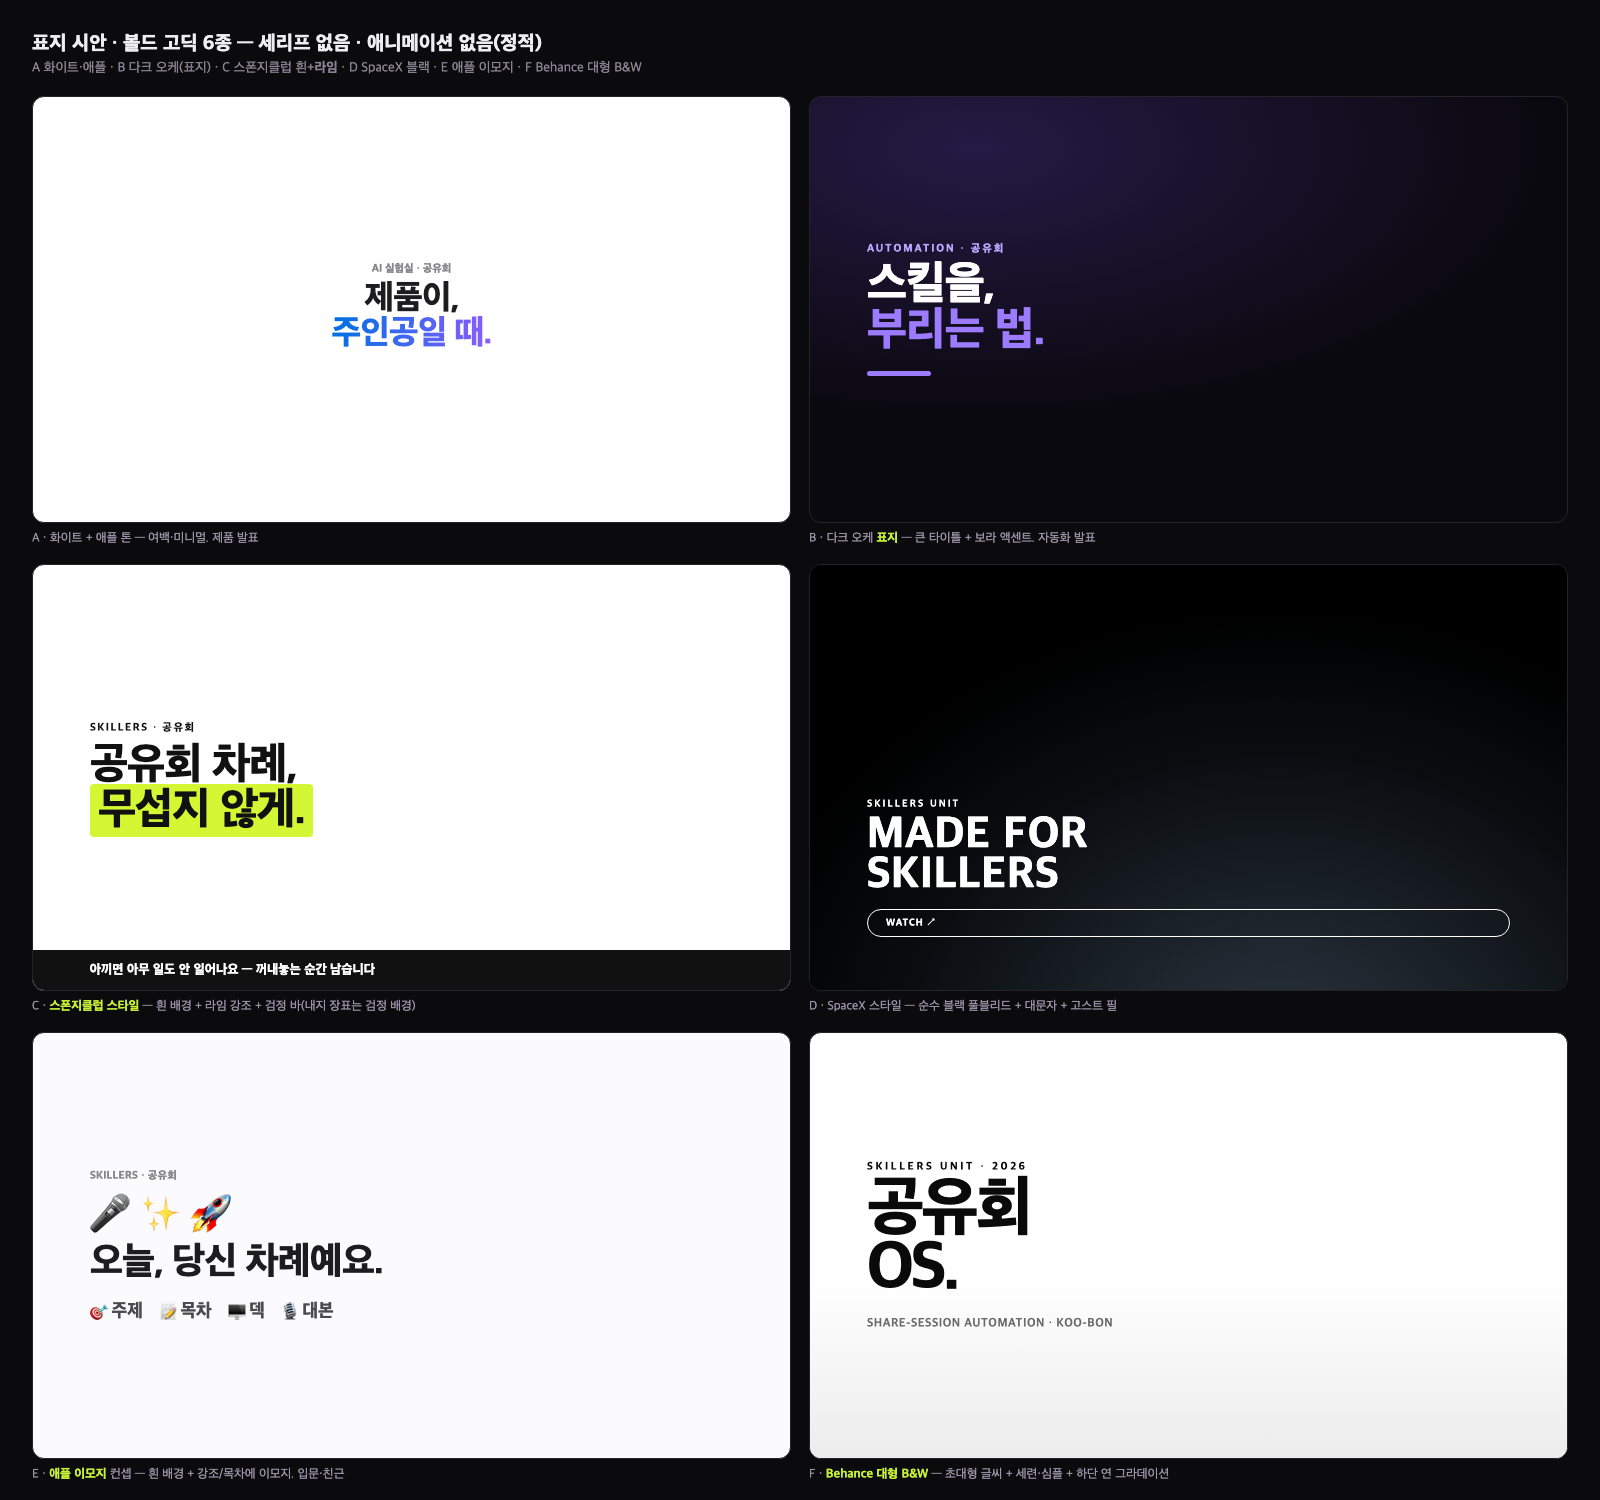
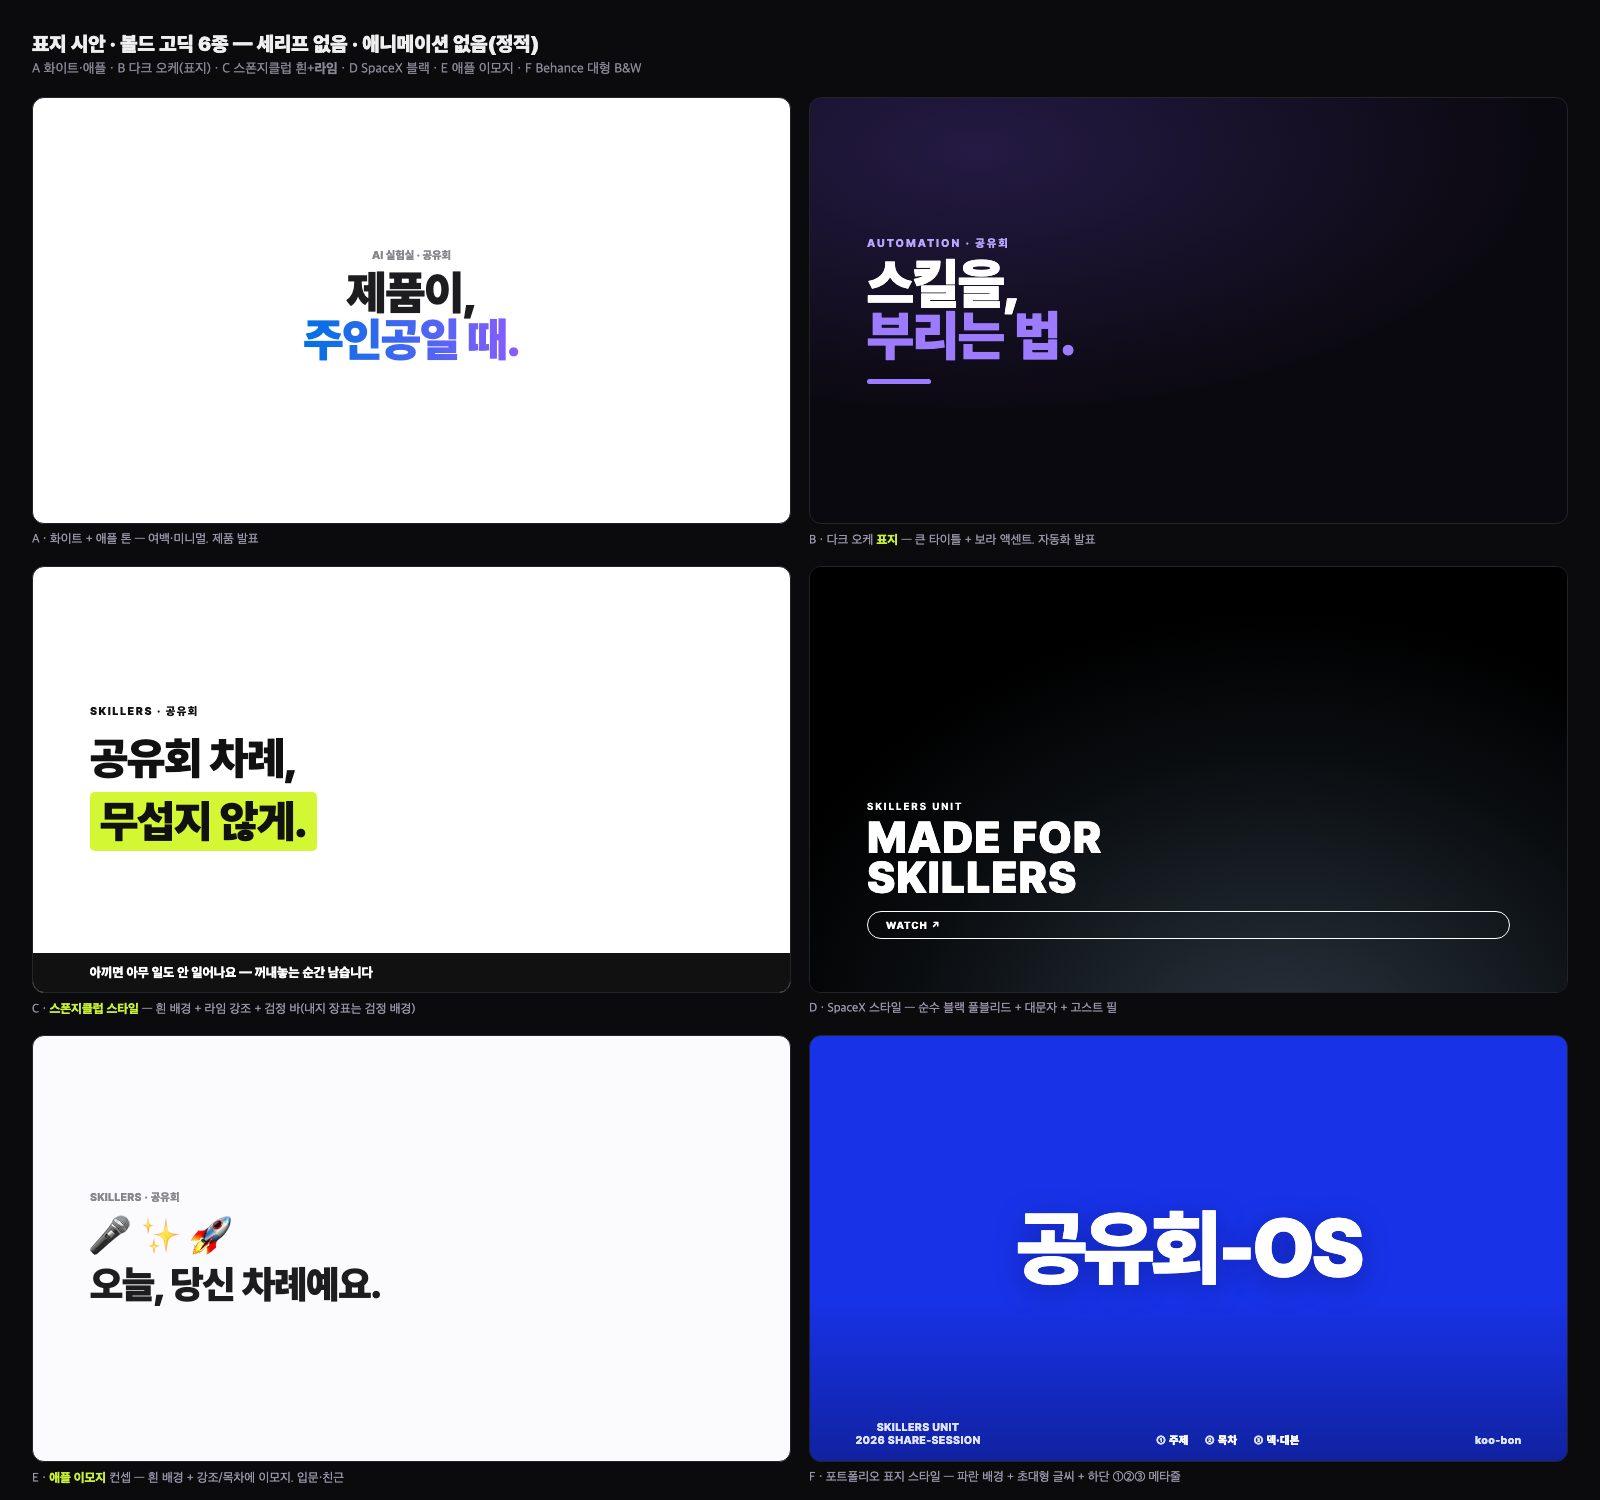
표지 6종 카피 크기·라임박스·F 파란포트폴리오 · 3p 표지시안만 크게 · 5p 네이티브 조직도(팀장별 스킬)

diff --git a/deck.config.js b/deck.config.js
@@ -51,27 +51,14 @@ window.DECK = {
     {
       "type": "grid",
       "big": true,
-      "cols": 3,
-      "kicker": "③ 제목 → ④ 목차 → ⑤ 덱",
-      "title": "PPT처럼 보이면 실패로 봅니다",
+      "cols": 1,
+      "kicker": "③ 디자인 · PPT처럼 보이면 실패",
       "items": [
         {
-          "img": "assets/concepts6.png",
-          "tag": "표지 시안",
-          "cap": "컨셉에 맞춰 여러 감도를 만들고 고르게 합니다"
-        },
-        {
-          "img": "assets/cover.png",
-          "tag": "고른 표지",
-          "cap": "한 장으로 발표를 파는 포스터. 내지와 규칙이 다릅니다"
-        },
-        {
-          "img": "assets/slide-flow.png",
-          "tag": "내지",
-          "cap": "텍스트만 다섯 장 이어지면 스킬이 스스로 잡아냅니다"
+          "img": "assets/concepts6.png"
         }
       ],
-      "sub": "제목+불릿 나열, 가운데 놓인 작은 이미지, 그라데이션, 클립아트, 시스템 기본 폰트 — 전부 금지 목록입니다"
+      "sub": "컨셉마다 표지 감도를 만들어 고르게 합니다 — 시스템 폰트·클립아트·가운데 작은 이미지 금지"
     },
     {
       "type": "feature",
@@ -99,15 +86,65 @@ window.DECK = {
       "sub": "발표 중에는 S 키로 발표자 노트, T 키로 구간 타이머"
     },
     {
-      "type": "grid",
-      "big": true,
-      "cols": 1,
-      "kicker": "구조 · 오케스트레이터가 셋을 부린다",
-      "items": [
+      "type": "orgchart",
+      "kicker": "구조 · 공유회-OS가 셋을 부린다",
+      "title": "오케스트레이터 → 지침·엔진·스킬",
+      "chief": {
+        "role": "발표자 · 최종 결정",
+        "name": "나"
+      },
+      "boss": {
+        "role": "오케스트레이터 (하네스)",
+        "name": "공유회-OS"
+      },
+      "teams": [
         {
-          "img": "assets/structure.png"
+          "role": "지침 · references",
+          "name": "흐름 규칙",
+          "skills": [
+            "질문 3개",
+            "유형 6종",
+            "제목 패턴",
+            "1시간 배분",
+            "발표 대본",
+            "디자인·표지"
+          ]
+        },
+        {
+          "role": "엔진 · engine",
+          "name": "덱 도구",
+          "skills": [
+            "덱 생성",
+            "인터넷 배포",
+            "발표자 노트·타이머",
+            "~webdeck 엔진"
+          ]
+        },
+        {
+          "role": "부르는 스킬",
+          "name": "bundled",
+          "skills": [
+            "훅카피",
+            "크리틱디렉터",
+            "spec-guard"
+          ]
+        },
+        {
+          "role": "흐름 · 9단계",
+          "name": "게이트 4곳",
+          "skills": [
+            "스캔",
+            "질문",
+            "내용",
+            "제목",
+            "목차",
+            "덱",
+            "검수"
+          ]
         }
-      ]
+      ],
+      "skilllabel": "구성",
+      "sub": "부장(공유회-OS)이 순서를 정하고 셋을 부린다 · 게이트에서만 내가 컨펌 · ~는 원본에서 받아옴"
     },
     {
       "type": "ending",
